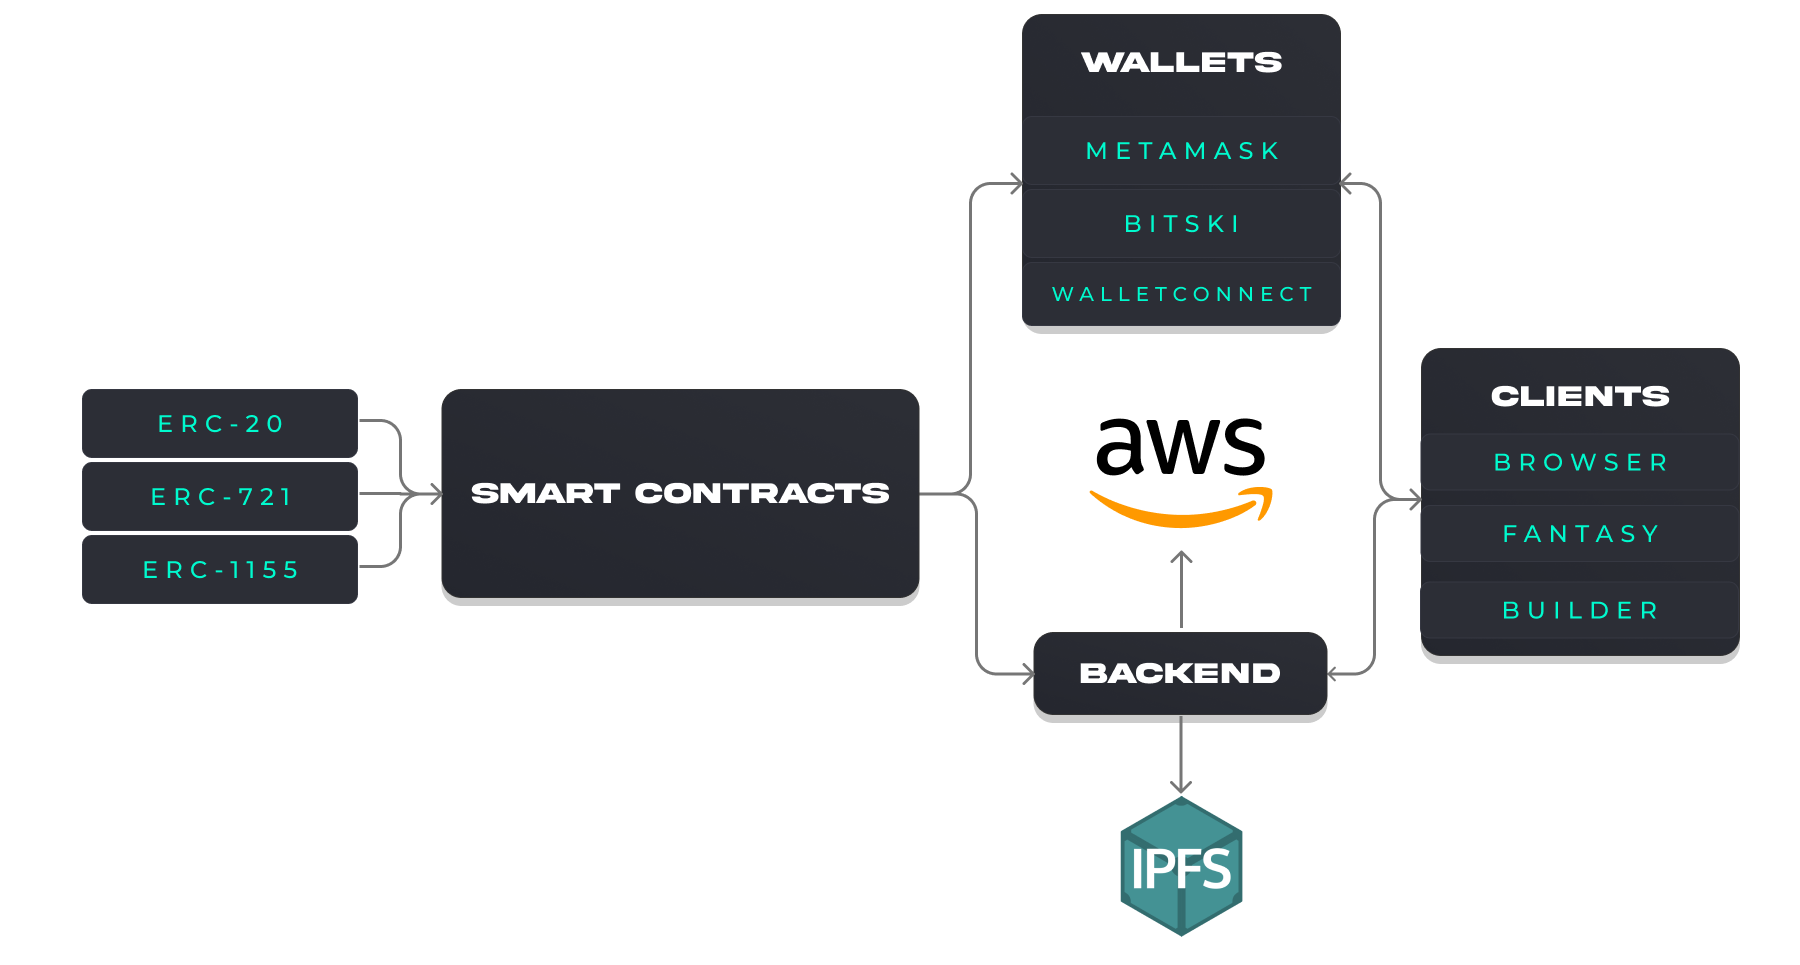
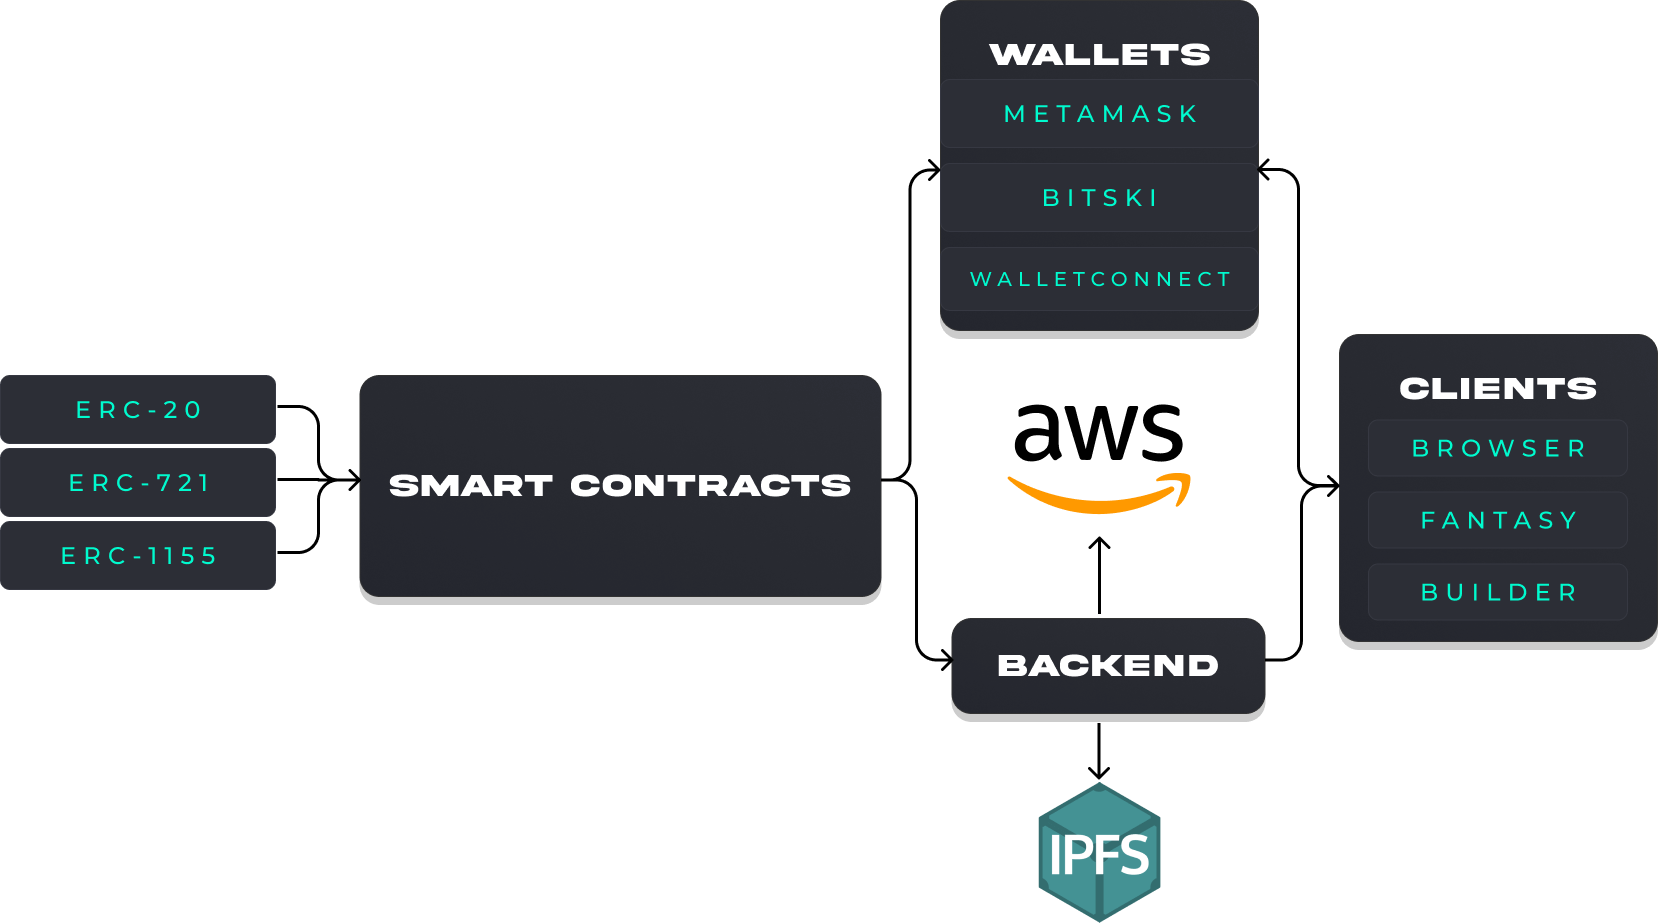
GitBook: [#694] No subject

Changed region(s): [[0.0, 0.0, 1.0, 1.0], [0.6152, 0.1213, 0.7075, 0.182], [0.6152, 0.2124, 0.7075, 0.2427]]

diff --git a/resources/architecture.md b/resources/architecture.md
@@ -26,4 +26,4 @@ Our backend handles the storing of user data and processes NFT data coming from 
 
 We utilize the Polygon frontend to interact with the blockchain, inspect blocks, execute transactions, and query state.
 
-![](<../.gitbook/assets/Tech Stack (1).png>)
+![](<../.gitbook/assets/Tech Stack Chart.png>)

diff --git a/resources/roadmap.md b/resources/roadmap.md
@@ -1,7 +1,3 @@
----
-description: Work in progress
----
-
 # Roadmap
 
 ![](../.gitbook/assets/Roadmap.png)
